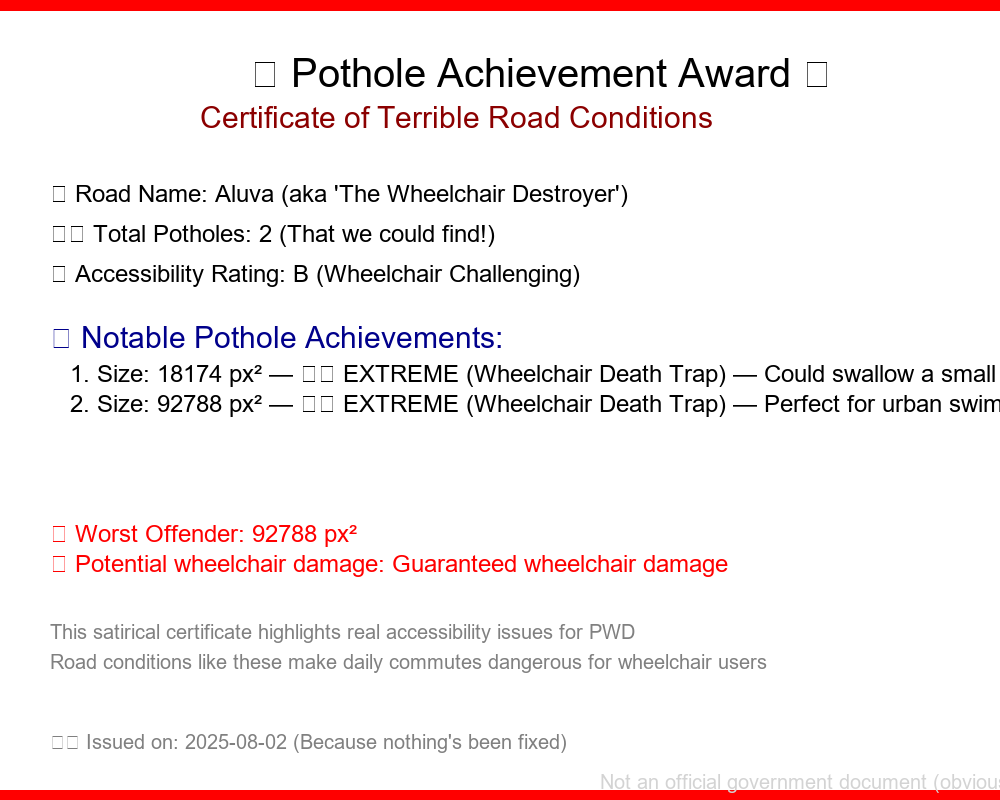
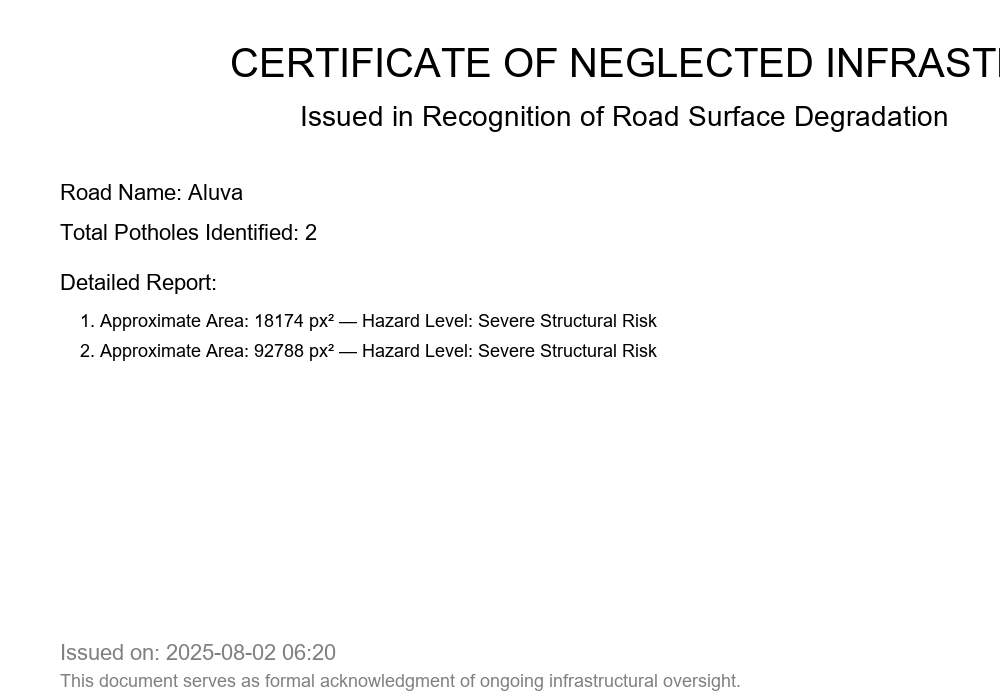
commit 3

diff --git a/app/detector.py b/app/detector.py
@@ -1,7 +1,7 @@
 import cv2
 import numpy as np
 
-def detect_potholes(image_path, area_threshold=500):
+def detect_potholes(image_path, area_threshold=300):
     image = cv2.imread(image_path)
     result = {}
     stages = {}
@@ -13,37 +13,26 @@ def detect_potholes(image_path, area_threshold=500):
     gray = cv2.cvtColor(image, cv2.COLOR_BGR2GRAY)
     stages["1. Grayscale"] = cv2.cvtColor(gray, cv2.COLOR_GRAY2BGR)
 
-    # Enhance contrast with CLAHE
-    clahe = cv2.createCLAHE(clipLimit=2.0, tileGridSize=(8, 8))
+    # CLAHE for contrast enhancement
+    clahe = cv2.createCLAHE(clipLimit=2.5, tileGridSize=(8, 8))
     contrast = clahe.apply(gray)
     stages["2. CLAHE"] = cv2.cvtColor(contrast, cv2.COLOR_GRAY2BGR)
 
-    # Use a light bilateral filter to preserve edges
+    # Bilateral Filter
     filtered = cv2.bilateralFilter(contrast, 9, 75, 75)
 
-    # Morphological closing to reduce small noise
+    # Adaptive Threshold (useful for light potholes)
+    adaptive = cv2.adaptiveThreshold(filtered, 255, cv2.ADAPTIVE_THRESH_MEAN_C,
+                                     cv2.THRESH_BINARY_INV, 15, 10)
+    stages["3. Adaptive Threshold"] = cv2.cvtColor(adaptive, cv2.COLOR_GRAY2BGR)
+
+    # Morph operations
     kernel = cv2.getStructuringElement(cv2.MORPH_ELLIPSE, (5, 5))
-    closed = cv2.morphologyEx(filtered, cv2.MORPH_CLOSE, kernel)
-    stages["3. Morph Close"] = cv2.cvtColor(closed, cv2.COLOR_GRAY2BGR)
+    morph = cv2.morphologyEx(adaptive, cv2.MORPH_CLOSE, kernel)
+    morph = cv2.dilate(morph, kernel, iterations=2)
+    stages["4. Morphology"] = cv2.cvtColor(morph, cv2.COLOR_GRAY2BGR)
 
-    # Sharpen edges
-    sharpen_kernel = np.array([[0, -1, 0], [-1, 5, -1], [0, -1, 0]])
-    sharpened = cv2.filter2D(closed, -1, sharpen_kernel)
-    stages["4. Sharpened"] = cv2.cvtColor(sharpened, cv2.COLOR_GRAY2BGR)
-
-    # Adaptive Canny edges
-    med = np.median(sharpened)
-    lower = int(max(0, 0.66 * med))
-    upper = int(min(255, 1.33 * med))
-    edges = cv2.Canny(sharpened, lower, upper)
-    stages["5. Edges"] = cv2.cvtColor(edges, cv2.COLOR_GRAY2BGR)
-
-    # Dilate to connect broken contours
-    dilated = cv2.dilate(edges, kernel, iterations=2)
-    stages["6. Dilated"] = cv2.cvtColor(dilated, cv2.COLOR_GRAY2BGR)
-
-    # Contour detection
-    contours, _ = cv2.findContours(dilated, cv2.RETR_EXTERNAL, cv2.CHAIN_APPROX_SIMPLE)
+    contours, _ = cv2.findContours(morph, cv2.RETR_EXTERNAL, cv2.CHAIN_APPROX_SIMPLE)
 
     potholes = []
 
@@ -52,34 +41,40 @@ def detect_potholes(image_path, area_threshold=500):
         if area < area_threshold:
             continue
 
-        # Shape filtering: filter out elongated lines or flat stains
-        perimeter = cv2.arcLength(cnt, True)
-        approx = cv2.approxPolyDP(cnt, 0.02 * perimeter, True)
+        x, y, w, h = cv2.boundingRect(cnt)
+        aspect_ratio = float(w) / h if h != 0 else 0
+        if aspect_ratio > 6.0 or aspect_ratio < 0.15:
+            continue
 
-        # Convexity: potholes are usually concave
+        rect_area = w * h
+        extent = float(area) / rect_area if rect_area != 0 else 0
+        if extent < 0.15:
+            continue
+
         hull = cv2.convexHull(cnt)
         hull_area = cv2.contourArea(hull)
         if hull_area == 0:
             continue
         solidity = area / hull_area
+        if solidity < 0.3:
+            continue
 
-        # Heuristic filter: good solidity + few points in approx
-        if solidity < 0.5:
-            continue  # skip open or too irregular shapes
-
-
-        x, y, w, h = cv2.boundingRect(cnt)
+        # Danger score = area * brightness drop
         roi = gray[y:y+h, x:x+w]
         brightness = np.mean(roi)
         darkness = 255 - brightness
         danger_score = int(area * (darkness / 255))
 
-        if danger_score > 15000:
+        # Flexible thresholds
+        if danger_score > 10000:
             level = "High"
             color = (0, 0, 255)
-        elif danger_score > 8000:
+        elif danger_score > 5000:
             level = "Medium"
             color = (0, 165, 255)
+        elif danger_score > 2000:
+            level = "Low"
+            color = (0, 255, 255)
         else:
             continue
 
@@ -92,11 +87,12 @@ def detect_potholes(image_path, area_threshold=500):
             "brightness": int(brightness),
             "danger_score": danger_score,
             "danger_level": level,
-            "solidity": round(solidity, 2)
+            "solidity": round(solidity, 2),
+            "aspect_ratio": round(aspect_ratio, 2),
+            "extent": round(extent, 2)
         })
 
-    stages["7. Final Detection"] = original
-
+    stages["5. Final Detection"] = original
     result["potholes"] = potholes
     result["stages"] = stages
     result["image"] = original

diff --git a/app/certificate_generator.py b/app/certificate_generator.py
@@ -7,25 +7,36 @@ def generate_certificate(road_name, pothole_data):
     draw = ImageDraw.Draw(cert)
 
     title_font = ImageFont.truetype("arial.ttf", 40)
-    regular_font = ImageFont.truetype("arial.ttf", 24)
+    subtitle_font = ImageFont.truetype("arial.ttf", 28)
+    regular_font = ImageFont.truetype("arial.ttf", 22)
+    small_font = ImageFont.truetype("arial.ttf", 18)
 
-    draw.text((width // 2 - 250, 50), "🏆 Official Pothole Certificate 🏆", font=title_font, fill="black")
+    # Title
+    draw.text((width // 2 - 270, 40), "CERTIFICATE OF NEGLECTED INFRASTRUCTURE", font=title_font, fill="black")
 
-    draw.text((50, 150), f"📍 Road Name: {road_name}", font=regular_font, fill="black")
-    draw.text((50, 200), f"🕳 Total Potholes Detected: {len(pothole_data)}", font=regular_font, fill="black")
+    # Subtitle
+    draw.text((width // 2 - 200, 100), "Issued in Recognition of Road Surface Degradation", font=subtitle_font, fill="black")
 
+    # Road info
+    draw.text((60, 180), f"Road Name: {road_name}", font=regular_font, fill="black")
+    draw.text((60, 220), f"Total Potholes Identified: {len(pothole_data)}", font=regular_font, fill="black")
+
+    # Pothole breakdown
+    draw.text((60, 270), "Detailed Report:", font=regular_font, fill="black")
     for idx, pothole in enumerate(pothole_data, start=1):
-        msg = f"{idx}. Area: {int(pothole['area'])} px² — Danger: {get_danger(pothole['area'])}"
-        draw.text((70, 250 + 30 * (idx - 1)), msg, font=regular_font, fill="black")
+        msg = f"{idx}. Approximate Area: {int(pothole['area'])} px² — Hazard Level: {get_danger(pothole['area'])}"
+        draw.text((80, 310 + 30 * (idx - 1)), msg, font=small_font, fill="black")
 
-    draw.text((50, 650), f"🗓 Issued on: {datetime.datetime.now().strftime('%Y-%m-%d %H:%M')}", font=regular_font, fill="gray")
+    # Footer
+    draw.text((60, 640), f"Issued on: {datetime.datetime.now().strftime('%Y-%m-%d %H:%M')}", font=regular_font, fill="gray")
+    draw.text((60, 670), "This document serves as formal acknowledgment of ongoing infrastructural oversight.", font=small_font, fill="gray")
 
     return cert
 
 def get_danger(area):
     if area > 10000:
-        return "☠ EXTREME"
+        return "Severe Structural Risk"
     elif area > 3000:
-        return "⚠ Moderate"
+        return "Notable Safety Concern"
     else:
-        return "🙂 Tiny"
+        return "Minor Surface Imperfection"

diff --git a/app/streamlit_app.py b/app/streamlit_app.py
@@ -220,7 +220,7 @@ if st.session_state.current_page == "upload":
         
         # Display uploaded image
         st.markdown("### 🖼 Uploaded Image")
-        st.image(temp_path, caption="📸 Road Image for Analysis", use_column_width=True)
+        st.image(temp_path, caption="📸 Road Image for Analysis", use_container_width=True)
         
         # Analysis button
         if st.button("🔍 Analyze Potholes", type="primary", use_container_width=True):
@@ -285,7 +285,7 @@ if st.session_state.current_page == "upload":
                 for i, (label, img_stage) in enumerate(stages.items()):
                     rgb_img = cv2.cvtColor(img_stage, cv2.COLOR_BGR2RGB)
                     with cols[i]:
-                        st.image(rgb_img, caption=f"**{label}**", use_column_width=True)
+                        st.image(rgb_img, caption=f"**{label}**", use_container_width=True)
                 
                 st.markdown("---")
                 
@@ -414,7 +414,7 @@ elif st.session_state.current_page == "certificate":
                 
                 # Display generated certificate
                 st.markdown("### 🎉 Your Official Pothole Certificate")
-                st.image(cert_path, caption="🚧 Official Pothole Documentation Certificate", use_column_width=True)
+                st.image(cert_path, caption="🚧 Official Pothole Documentation Certificate", use_container_width=True)
                 
                 # Download section
                 st.markdown("### 📥 Download Certificate")
